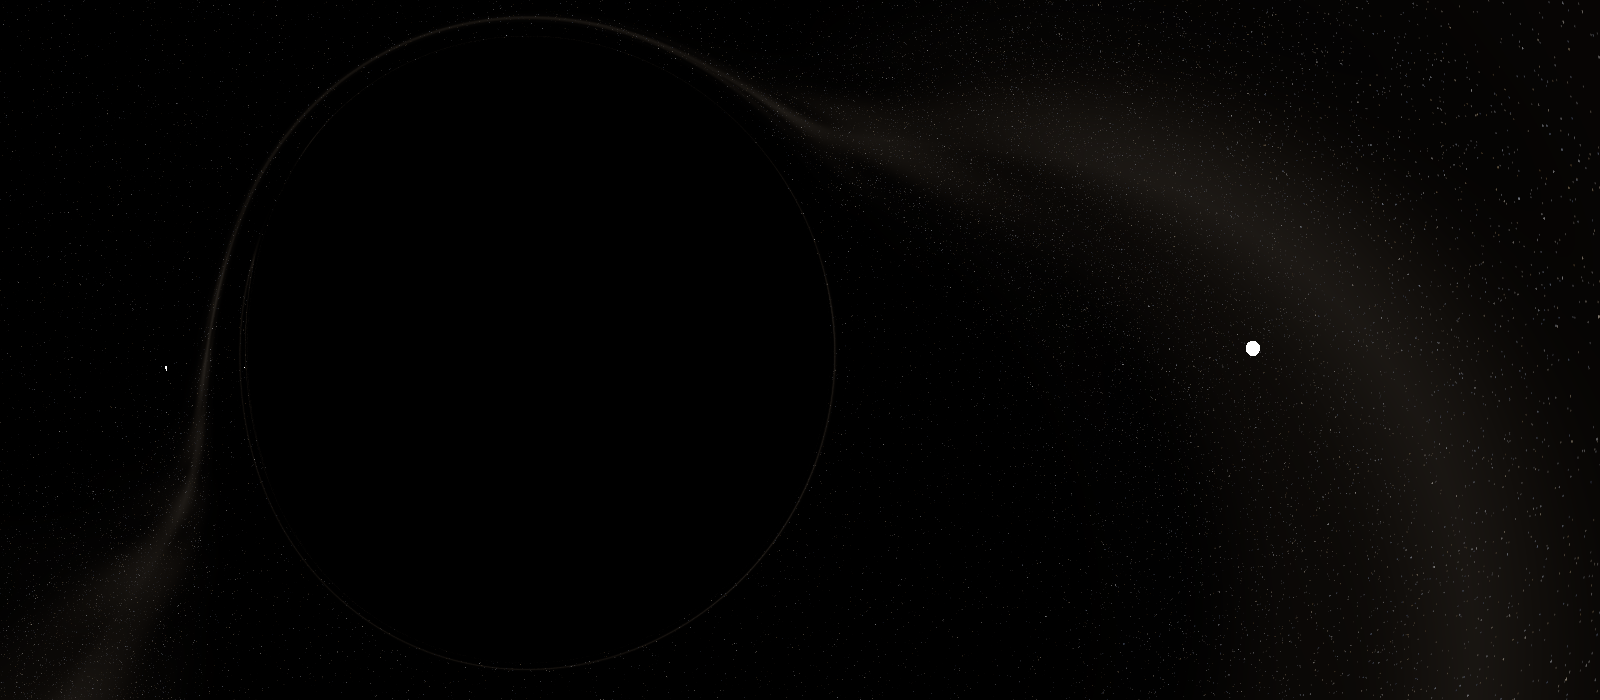
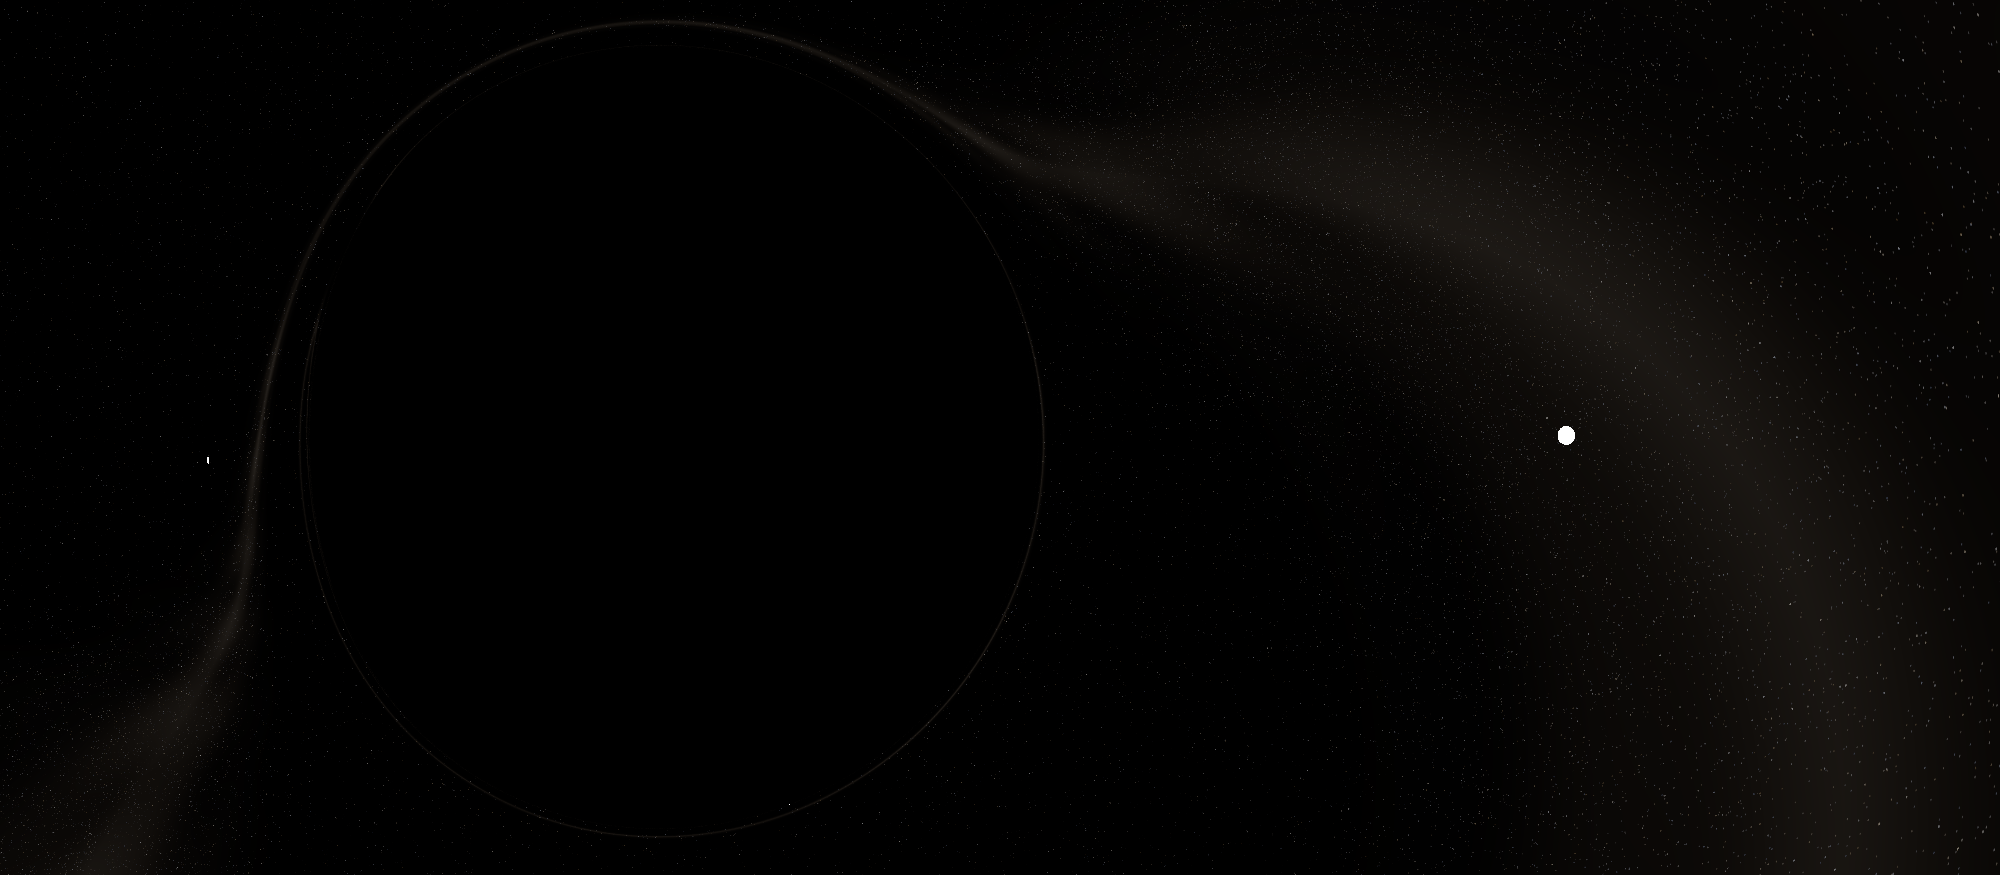
Add TON 618, and rebuild the gallery at 1920x1080
New preset: TON 618, 6.6e10 solar masses from the width of its H-beta line
(Shemmer et al. 2004), one of the most massive black holes known. At 5% of
Eddington the renderer computes 4.15e40 W, matching the observed bolometric
luminosity of about 4e40 W, at 38.5 solar masses per year. Its shadow comes
out 0.107 light-years across - 6770 AU, or 113 times the width of Neptune's
orbit, and 728000 times wider than the Sun.

Its default inclination is 45 degrees, which is deliberate rather than
cosmetic: the broad emission lines that identify it as a quasar mean our line
of sight misses the obscuring torus, which caps the inclination near 45. That
also makes it look like a bright ellipse rather than the dramatic near
edge-on shape, so a second render at 80 degrees is included and labelled as
what it is - the angle that shows the lensing, not our view of the object.

Gallery rebuilt from 7 images to 20, mostly at 1920x1080:
- the four real holes (TON 618, Sgr A*, M87*, a stellar-mass binary)
- one hole at 5, 60 and 90 degrees, showing how the lensed far side lifts
  over the shadow as the disc tips
- a spin series at a = 0, 0.5, 0.9, 0.998, where the ISCO marches from 6M to
  1.24M and the shadow goes visibly non-circular
- a retrograde disc, whose ISCO retreats to 8.7M and whose beaming flips
- a tight crop on the photon ring
- wide-field lensing of the sky from 40 GM/c^2

Total committed media 12.9 MB for 20 stills and 2 films, still well under the
[…]

diff --git a/src/main.cpp b/src/main.cpp
@@ -92,7 +92,8 @@ USAGE
   blackhole [options]
 
 SCENE
-  --preset NAME        sgra | m87 | stellar | gargantua | custom   (default: sgra)
+  --preset NAME        sgra | m87 | ton618 | stellar | gargantua | custom
+                       (default: sgra)
   --mass MSUN          black hole mass in solar masses
   --spin A             dimensionless spin a/M in [-0.9999, 0.9999]
   --distance R         camera distance in gravitational radii GM/c^2
@@ -193,6 +194,28 @@ void apply_preset(Options& o, const std::string& name) {
         o.cfg.disc_r_out = 45.0;
         o.cfg.eddington = 0.1;
         o.inclination_deg = 78.0;
+        o.cfg.cam.fov = 0.55;
+    } else if (name == "ton618") {
+        // TON 618, a hyperluminous quasar at redshift 2.22 and one of the most
+        // massive black holes known: 6.6e10 solar masses, from the width of
+        // its H-beta line (Shemmer et al. 2004).  Its shadow is 0.107 light
+        // years across - 6770 AU, more than a hundred times the width of
+        // Neptune's orbit.  The bolometric luminosity of about 4e40 W puts it
+        // at roughly 5% of Eddington.  Type-1 quasars are seen without the
+        // torus in the way, so the disc is viewed fairly face-on.
+        o.cfg.M_kg = 6.6e10 * phys::M_sun;
+        o.cfg.spin = 0.95;               // sustained accretion spins a hole up
+        o.cfg.cam.r = 130.0;
+        o.cfg.disc_r_out = 30.0;
+        o.cfg.eddington = 0.05;
+        // Its broad emission lines mean our line of sight misses the obscuring
+        // torus, which in the standard picture puts the inclination inside
+        // roughly 45 degrees of the spin axis.  So this is close to the most
+        // edge-on view consistent with seeing it as a type-1 quasar at all -
+        // which is also why it looks like a bright ellipse rather than the
+        // dramatic near-edge-on shape.  --inclination 80 shows the lensing,
+        // but that is not our actual view of this object.
+        o.inclination_deg = 45.0;
         o.cfg.cam.fov = 0.55;
     } else if (name == "gargantua") {
         // A slowly spun-up supermassive hole with a bright, cool disc: the

diff --git a/README.md b/README.md
@@ -149,6 +149,12 @@ orders of magnitude and no single linear exposure can hold both.*
 the shadow, so the frame has to be wider and the Sun shrinks to a few pixels on
 the right — still at its true relative size.*
 
+![Sun versus a stellar-mass hole](gallery/sun-vs-stellar.png)
+
+*The comparison inverted. Against a 10 M☉ hole the Sun is the giant: 9 000×
+wider, and the black hole is smaller than one pixel. The program says so in its
+report rather than quietly rescaling to make both visible.*
+
 The program prints the numbers too:
 
 ```
@@ -164,6 +170,7 @@ The comparison lands very differently depending on the hole:
 | stellar (X-ray binary) | 10 M☉ | 153 km | Sun is **9 000×** wider |
 | Sagittarius A* | 4.3 × 10⁶ M☉ | 6.6 × 10⁷ km | shadow is **47×** wider |
 | M87* | 6.5 × 10⁹ M☉ | 1.0 × 10¹¹ km | shadow is **72 000×** wider — 667 AU |
+| TON 618 | 6.6 × 10¹⁰ M☉ | 1.0 × 10¹² km | shadow is **728 000×** wider — 6 770 AU, or 0.107 light-years |
 
 For the stellar-mass case the hole is genuinely smaller than a pixel next to the
 Sun, and the program says so rather than quietly cheating the scale.
@@ -351,20 +358,72 @@ Every render also reports its own accuracy:
 
 ## Gallery
 
+All rendered at 1920×1080 (or the stated size) by the code in this repository.
+
+### The four real black holes, to the same recipe
+
 | | |
 |---|---|
-| ![M87](gallery/m87.png) | ![stellar](gallery/stellar.png) |
-| **M87\***, 17° from the spin axis — nearly face-on, so the Doppler asymmetry is weak and the ring is almost round. The orange is a real colour: a few-thousand-kelvin disc. | **Stellar-mass X-ray binary**, 10 M☉ at 0.1 Eddington. The disc peaks at 7 × 10⁶ K, so its emission is X-ray and only the blue Rayleigh–Jeans tail is visible. |
-| ![gargantua](gallery/gargantua.png) | ![sgra](gallery/sgra.png) |
-| **10⁸ M☉ at a = 0.999, seen 3° from edge-on.** The "hump" above the shadow is the *far* side of the disc, lensed up and over the hole; the arc below it is the same far side seen through the underside. | **Sagittarius A\***, 8° from edge-on. The left side is brighter because it is approaching: at the inner disc the beaming contrast is about 8:1. |
+| ![TON 618](gallery/ton618.png) | ![M87](gallery/m87.png) |
+| **TON 618** — 6.6 × 10¹⁰ M☉, the largest here by far. Its shadow is **0.107 light-years** across: 6 770 AU, or 113 times the width of Neptune's orbit. At 45° from the spin axis, about the most edge-on view still consistent with seeing it as a broad-line quasar at all. | **M87\***, 17° from the spin axis. Nearly face-on, so the Doppler asymmetry is weak and the ring is almost round. The orange is a computed colour, not a palette: a few-thousand-kelvin disc. |
+| ![Sgr A*](gallery/sgra.png) | ![stellar](gallery/stellar.png) |
+| **Sagittarius A\***, 8° from edge-on. The left side is brighter because it is approaching — at the inner disc the beaming contrast is about 8:1. | **Stellar-mass X-ray binary**, 10 M☉ at 0.1 Eddington. The disc peaks at 7 × 10⁶ K, so its output is X-ray and only the blue Rayleigh–Jeans tail is visible. |
+
+![TON 618 edge-on](gallery/ton618-edge.png)
+
+*TON 618 seen 10° from edge-on. This is **not** our actual line of sight — at
+this inclination the obscuring torus would hide the broad lines that identify it
+as a quasar — but it is the angle at which the lensing shows itself: the band
+arcing over the shadow is the far side of the disc, bent up and over the hole.*
+
+### One hole, three viewing angles
+
+| | | |
+|---|---|---|
+| ![face on](gallery/face-on.png) | ![inclined](gallery/inclined.png) | ![edge on](gallery/edge-on.png) |
+| **5°** — down the spin axis. A flat ring; no beaming asymmetry, because nothing is moving towards us. | **60°** — the disc tips, the far side starts to lift over the shadow, and the approaching limb brightens. | **90°** — exactly edge-on. The disc itself is a razor line; everything above and below it is lensed light from its far side. |
+
+### Spin
+
+The same hole and disc at four values of *a/M*. Watch the inner edge: the ISCO
+moves from 6M to 1.24M, so the disc reaches further in and gets hotter, and the
+shadow becomes visibly non-circular as frame dragging drags one side of the
+photon ring inward.
+
+| | | | |
+|---|---|---|---|
+| ![a=0](gallery/spin-00.png) | ![a=0.5](gallery/spin-05.png) | ![a=0.9](gallery/spin-09.png) | ![a=0.998](gallery/spin-0998.png) |
+| **a = 0** — Schwarzschild. ISCO 6M, efficiency 5.7%. | **a = 0.5** — ISCO 4.23M, efficiency 8.2%. | **a = 0.9** — ISCO 2.32M, efficiency 15.6%. | **a = 0.998** — the Thorne limit. ISCO 1.24M, efficiency 32%. |
+
+### Two more things the physics does on its own
+
+| | |
+|---|---|
+| ![retrograde](gallery/retrograde.png) | ![photon ring](gallery/photon-ring.png) |
+| **A retrograde disc**, orbiting against the hole's spin. The ISCO retreats to 8.7M, so the inner disc is cooler and dimmer, and the beaming asymmetry flips to the other side. | **Close in on the photon ring.** The thin bright arc hugging the shadow is light that orbited the hole before escaping — the disc, imaged again at higher order. |
+
+### Lensing of the background sky
+
+![lensed starfield](gallery/lensed-starfield.png)
+
+*No disc: just 500 000 stars and the Milky Way, seen through the hole's gravity.
+The Einstein ring, the secondary images inside it, and the shadow's D-shaped
+flattening from frame dragging are all consequences of the traced geodesics.*
+
+![wide field](gallery/wide-field.png)
+
+*From 40 GM/c² with a 110° field of view. This close, the hole lenses a large
+fraction of the whole sky into the ring around it — including the part of the
+sky directly behind the camera.*
 
 ---
+
 
 ## Usage
 
 ```
 SCENE
-  --preset NAME        sgra | m87 | stellar | gargantua | custom
+  --preset NAME        sgra | m87 | ton618 | stellar | gargantua | custom
   --mass MSUN          black hole mass in solar masses
   --spin A             dimensionless spin a/M in [-0.9999, 0.9999]
   --distance R         camera distance in gravitational radii GM/c^2
@@ -428,6 +487,9 @@ Some things worth trying:
 
 # look down the spin axis
 ./blackhole --preset sgra --inclination 5
+
+# TON 618, one of the most massive black holes known
+./blackhole --preset ton618
 ```
 
 A note on `--glare`: it is a camera model, a convolution with a heavy-tailed
@@ -447,8 +509,8 @@ dependency. `.ppm` also works.
 ```bash
 make            # or: cmake -B build && cmake --build build
 make test       # the 40 physics checks
-make images     # regenerate gallery/
-make videos     # regenerate video/  (240 renders each, ~30 min)
+make images     # regenerate gallery/ (20 stills, ~90 min)
+make videos     # regenerate video/  (2 films, ~30 min)
 ```
 
 Needs a C++17 compiler and pthreads. Nothing else. `-ffast-math` is
